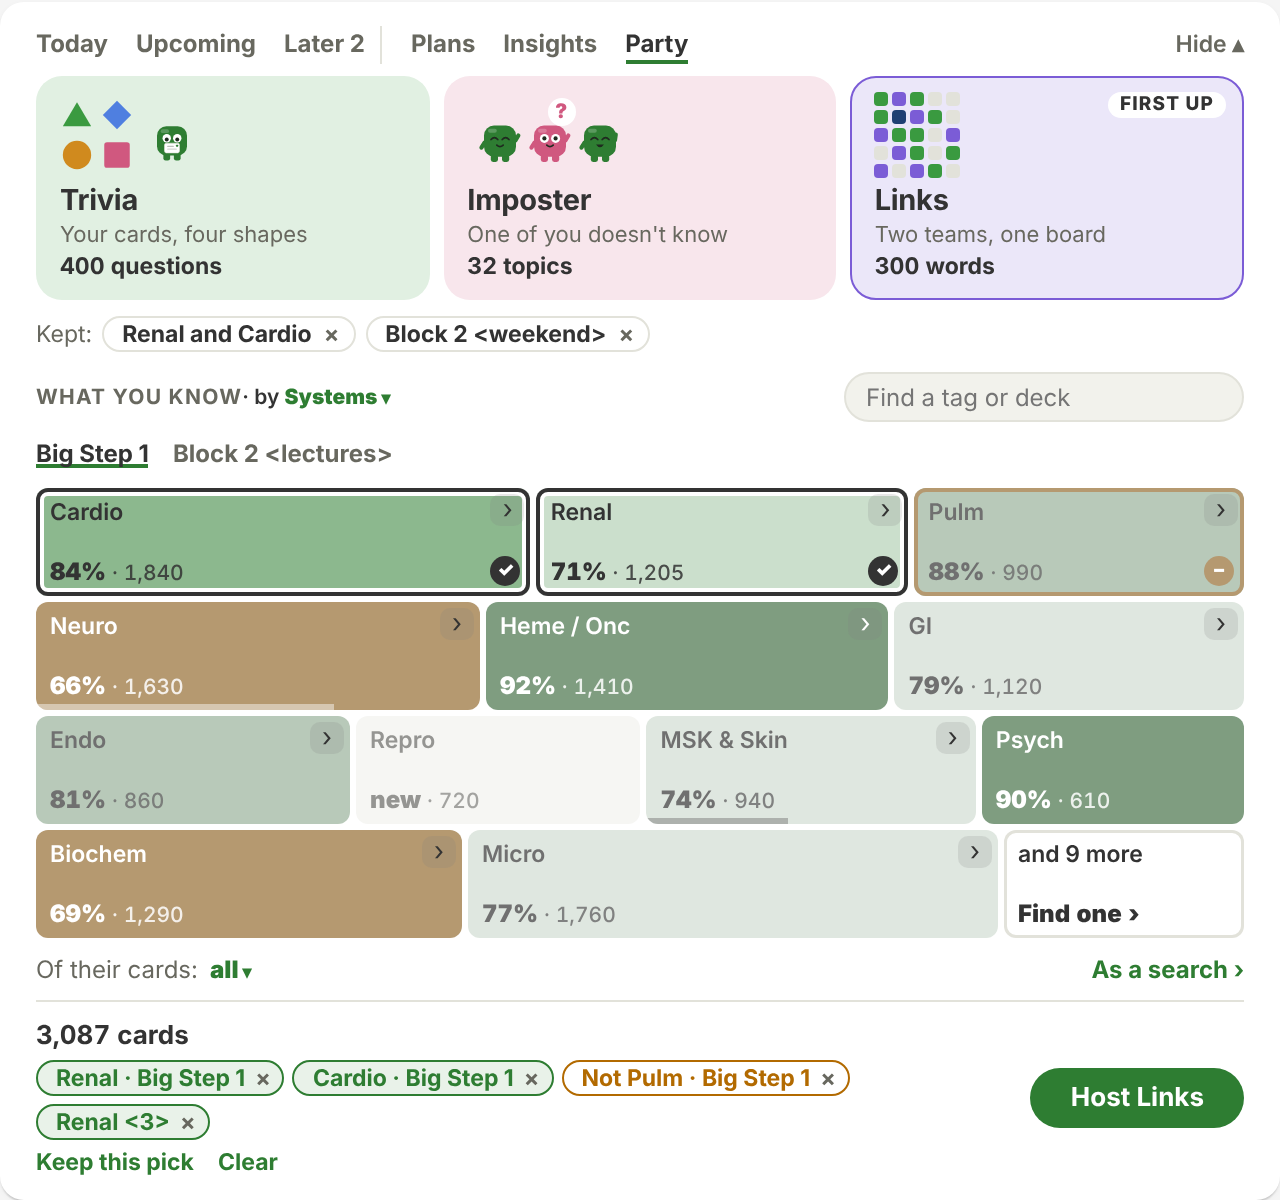
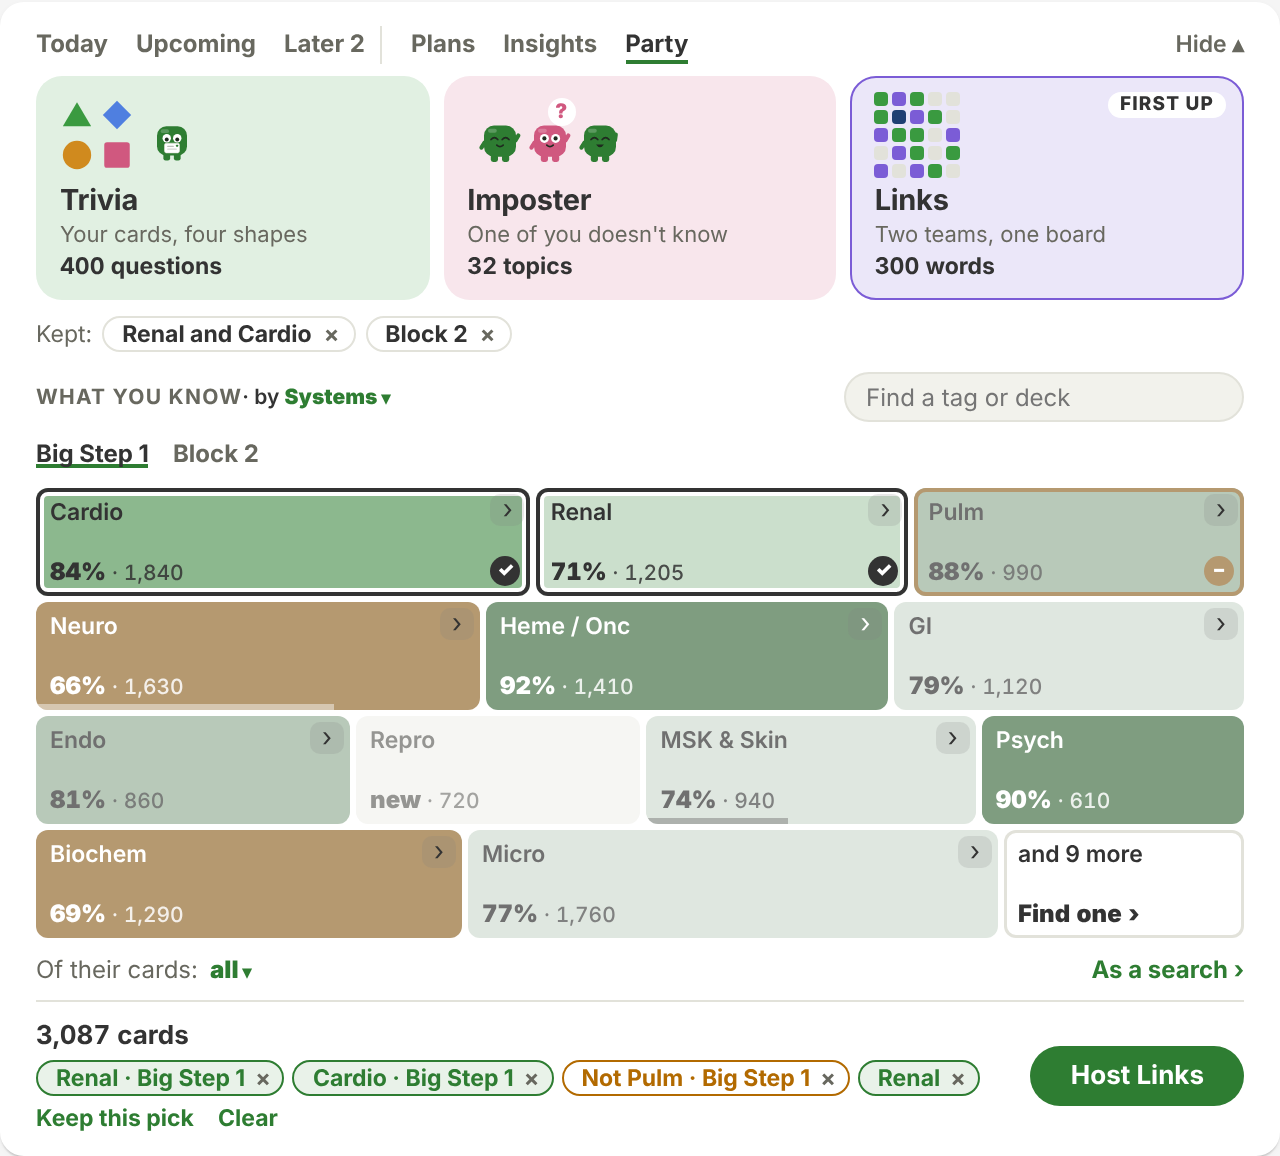
README pictures: no once-only notice lines, plain sample names in the Party picture
Claude-Session: https://claude.ai/code/session_01T9RYS9itCJ3KTL7nGa5aCe

diff --git a/tools/readme_shots.js b/tools/readme_shots.js
@@ -21,7 +21,15 @@ const only = process.argv[2] ? path.resolve(process.argv[2]) : img;   // another
   p = await page(760, 900);
   await p.goto('file://' + path.join(here, 'preview.html'));
   await p.waitForTimeout(700);
-  await p.addStyleTag({ content: '.bar { display: none !important; }' });
+  // the once-only lines on the board (what gets counted, the studying dot) aren't the listing's picture
+  await p.addStyleTag({ content: '.bar, .dc-calm { display: none !important; }' });
+  // the preview's names carry markup on purpose (it checks escaping); the listing's picture reads plainly
+  await p.evaluate(() => {
+    const w = document.createTreeWalker(document.body, NodeFilter.SHOW_TEXT);
+    for (let n = w.nextNode(); n; n = w.nextNode()) {
+      if (/ <(weekend|lectures|3)>/.test(n.nodeValue)) n.nodeValue = n.nodeValue.replace(/ <(weekend|lectures|3)>/g, '');
+    }
+  });
   const section = (start) => p.evaluateHandle((s) => {
     const h = [...document.querySelectorAll('h3')].find((x) => x.textContent.startsWith(s));
     return h ? h.nextElementSibling : null;
@@ -47,6 +55,7 @@ const only = process.argv[2] ? path.resolve(process.argv[2]) : img;   // another
   if (doc) {
     p = await page(1500, 640);
     await p.setContent(doc);
+    await p.addStyleTag({ content: '.dc-calm { display: none !important; }' });
     await p.waitForTimeout(900);
     await p.screenshot({ path: path.join(only, 'dance.png'), clip: { x: 1080, y: 400, width: 420, height: 240 } });
     console.log('dance.png');
